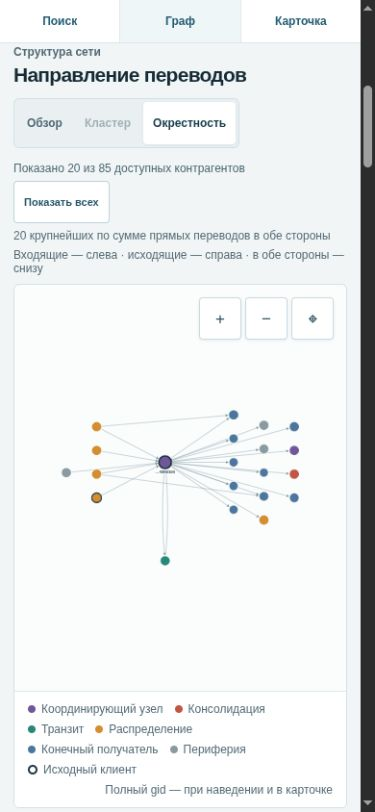
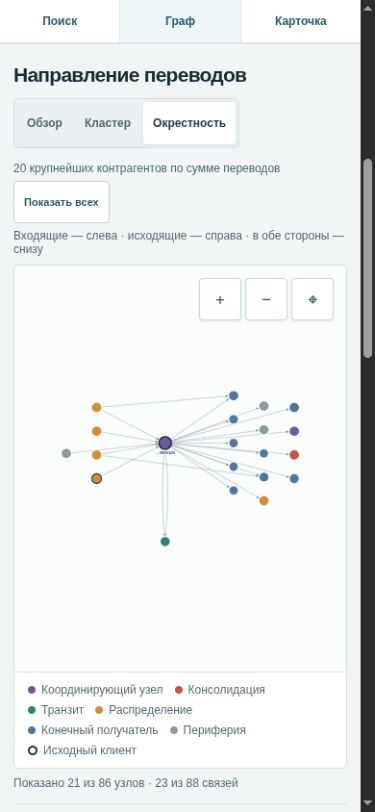
fix: simplify graph navigation and client details

diff --git a/frontend/src/styles.css b/frontend/src/styles.css
@@ -33,10 +33,11 @@ a { color: #245d72; }
 .brand p { margin: 3px 0 0; color: #637882; font-size: 12px; }
 .header-context { display: flex; flex-direction: column; gap: 3px; margin-left: auto; color: #647981; font-size: 12px; white-space: nowrap; }
 .period-label { color: #203d48; font-size: 14px; font-weight: 650; text-transform: capitalize; }
-.exports { display: flex; align-items: center; gap: 8px; padding-left: 20px; border-left: 1px solid #dbe5e9; }
-.exports > span { color: #627782; font-size: 12px; white-space: nowrap; }
-.exports a { display: inline-flex; min-height: 36px; align-items: center; padding: 7px 10px; border: 1px solid #cddde3; border-radius: 5px; color: #265263; font-size: 12px; font-weight: 600; text-decoration: none; white-space: nowrap; }
-.exports a:hover { border-color: #407589; background: #eff6f8; }
+.exports { position: relative; flex: 0 0 auto; }
+.exports summary { min-height: 44px; padding: 12px; border: 1px solid #cddde3; border-radius: 5px; color: #265263; font-size: 12px; font-weight: 600; cursor: pointer; }
+.exports nav { position: absolute; z-index: 6; top: calc(100% + 6px); right: 0; display: flex; flex-direction: column; min-width: 190px; padding: 5px; border: 1px solid #cddde3; border-radius: 5px; background: #fff; box-shadow: 0 4px 16px #24424e18; }
+.exports a { display: flex; align-items: center; min-height: 44px; padding: 10px; border-radius: 3px; color: #265263; font-size: 13px; text-decoration: none; }
+.exports a:hover, .exports summary:hover { background: #eff6f8; }
 
 .workspace { display: grid; grid-template-columns: 292px minmax(0, 1fr) 336px; flex: 1; min-height: 0; }
 .left-panel, .right-panel { min-width: 0; background: #fff; }
@@ -58,7 +59,7 @@ a { color: #245d72; }
 .priority-section > .section-heading, .section-note, .filter-row, .list-footnote { margin-left: 20px; margin-right: 20px; }
 .section-note { margin-top: 8px; margin-bottom: 17px; color: #617780; font-size: 12px; line-height: 1.5; }
 .filter-row { display: flex; align-items: center; justify-content: space-between; gap: 10px; margin-bottom: 8px; }
-.filter-row label { color: #49626c; font-size: 12px; }
+.filter-row label { color: #49626c; font-size: 12px; white-space: nowrap; }
 .filter-row select { min-width: 0; width: 172px; height: 35px; padding: 6px 8px; border: 1px solid #d1dee3; border-radius: 5px; background: #fff; color: #1f414f; font-size: 12px; }
 .priority-list { margin: 18px 0 0; padding: 0; list-style: none; }
 .priority-list li { border-top: 1px solid #ecf0f1; }
@@ -66,7 +67,6 @@ a { color: #245d72; }
 .priority-item { display: flex; align-items: center; gap: 9px; width: 100%; min-height: 60px; padding: 9px 16px 9px 20px; border: 0; border-left: 3px solid transparent; background: #fff; color: inherit; text-align: left; }
 .priority-item:hover { background: #f4f8f9; }
 .priority-item.is-active { border-left-color: #326b80; background: #ebf4f6; }
-.rank { align-self: flex-start; min-width: 20px; padding-top: 4px; color: #526a74; font-size: 12px; font-variant-numeric: tabular-nums; }
 .priority-main { display: flex; flex-direction: column; gap: 5px; min-width: 0; flex: 1; }
 .priority-main strong { overflow: hidden; color: #163b4a; font-size: 13px; font-weight: 680; text-overflow: ellipsis; white-space: nowrap; font-variant-numeric: tabular-nums; }
 .role-tag { display: inline-flex; align-items: center; gap: 6px; min-width: 0; color: #526b75; font-size: 12px; line-height: 1.3; }
@@ -91,7 +91,6 @@ a { color: #245d72; }
 .graph-toolbar { display: flex; align-items: center; flex-wrap: wrap; gap: 6px 12px; margin: 0 0 9px; color: #496773; font-size: 12px; font-variant-numeric: tabular-nums; }
 .graph-toolbar button { min-height: 34px; padding: 6px 10px; border: 1px solid #bdd1d9; border-radius: 4px; background: #fff; color: #24566a; font-size: 11px; font-weight: 650; }
 .graph-toolbar button:hover { border-color: #6493a4; background: #eef6f8; }
-.graph-toolbar small { width: 100%; color: #526a74; font-size: 12px; }
 .graph-toolbar .graph-directions { width: 100%; color: #526a74; font-size: 12px; }
 .graph-wrap { position: relative; display: flex; flex-direction: column; min-height: 440px; flex: 1; border: 1px solid #d4e1e5; border-radius: 6px; background-color: #fbfdfd; background-image: radial-gradient(#cbd8dd 0.65px, transparent 0.65px); background-size: 20px 20px; overflow: hidden; }
 .graph-canvas { width: 100%; min-height: 365px; flex: 1; }
@@ -110,7 +109,6 @@ a { color: #245d72; }
 .graph-legend span { display: inline-flex; align-items: center; gap: 6px; color: #526a74; font-size: 12px; white-space: nowrap; }
 .graph-legend i { width: 8px; height: 8px; border-radius: 50%; }
 .graph-legend .seed-mark { width: 10px; height: 10px; border: 2px solid #203946; background: #fff; }
-.graph-legend .legend-note { margin-left: auto; color: #526a74; white-space: normal; }
 .graph-caption { display: flex; flex-wrap: wrap; justify-content: space-between; gap: 3px 12px; margin: 8px 0 18px; color: #526a74; font-size: 12px; font-variant-numeric: tabular-nums; }
 .graph-access { margin: 0 0 18px; border-top: 1px solid #dce7ea; color: #294f5e; }
 .graph-access summary { display: flex; align-items: center; justify-content: space-between; min-height: 44px; font-size: 12px; font-weight: 650; cursor: pointer; list-style: none; }
@@ -122,9 +120,9 @@ a { color: #245d72; }
 .graph-access-fields label { color: #526a74; font-size: 12px; }
 .graph-access-fields select { width: 100%; min-width: 0; min-height: 40px; padding: 7px 9px; border: 1px solid #c8d8df; border-radius: 5px; background: #fff; color: #1f414f; font-size: 13px; }
 .graph-caption strong { color: #7b553a; font-weight: 600; }
-.data-caveat { display: flex; gap: 12px; padding: 13px 15px; border-left: 3px solid #b5764b; background: #f5f1ea; }
-.data-caveat strong { min-width: 108px; color: #754f38; font-size: 12px; }
-.data-caveat p { margin: 0; color: #665e54; font-size: 12px; line-height: 1.5; }
+.data-caveat { padding: 0 12px; border-left: 3px solid #b5764b; background: #f5f1ea; }
+.data-caveat summary { color: #754f38; }
+.data-caveat p { margin: 0 0 12px; color: #665e54; font-size: 12px; line-height: 1.5; }
 
 .right-panel { padding: 24px 20px 28px; }
 .detail-empty { display: flex; flex-direction: column; justify-content: center; min-height: 350px; max-width: 250px; margin: auto; color: #617780; }
@@ -134,9 +132,9 @@ a { color: #245d72; }
 .node-card-header { padding-bottom: 18px; border-bottom: 1px solid #dce7eb; }
 .node-card-header h2 { margin: 0 0 8px; overflow-wrap: anywhere; color: #173643; font-size: 24px; line-height: 1.2; letter-spacing: -.025em; font-variant-numeric: tabular-nums; }
 .node-card-header .role-tag { color: #314e5b; font-size: 12px; font-weight: 600; }
-.node-flags { display: flex; flex-wrap: wrap; gap: 6px; margin: 14px 0 18px; }
-.node-flags span { padding: 5px 7px; border: 1px solid #d6e2e6; border-radius: 3px; color: #526a74; font-size: 12px; }
-.node-flags .flag-warn { border-color: #e2c7b0; color: #925538; background: #fbf5ef; }
+.node-flags { display: flex; flex-wrap: wrap; gap: 6px 12px; margin: 14px 0 18px; }
+.node-flags span { color: #526a74; font-size: 12px; }
+.node-flags .flag-warn { color: #925538; }
 .node-scores { display: grid; grid-template-columns: 1fr 1fr; gap: 1px; margin-bottom: 18px; background: #d8e4e8; }
 .node-scores div { display: flex; flex-direction: column; gap: 4px; padding: 11px; background: #edf3f5; }
 .node-scores small { color: #526a74; font-size: 12px; line-height: 1.3; }
@@ -174,6 +172,7 @@ a { color: #245d72; }
 .connections li + li { margin: 0; }
 .connections li { border-top: 1px solid #e8eef0; }
 .connections li:last-child { border-bottom: 1px solid #e8eef0; }
+.connections .connection-order { margin: -4px 0 8px; color: #526a74; }
 .connections button { display: flex; justify-content: space-between; align-items: baseline; gap: 10px; width: 100%; padding: 9px 2px; border: 0; background: transparent; color: #284e5e; text-align: left; }
 .connections button:hover { background: #f0f6f8; }
 .connections button > span { display: flex; flex-direction: column; gap: 3px; min-width: 0; }
@@ -182,6 +181,12 @@ a { color: #245d72; }
 .connections button small { color: #526a74; font-size: 12px; }
 .detail-section .muted { color: #526a74; font-size: 12px; }
 .next-steps { padding-bottom: 0; }
+.data-caveat summary, .connections summary, .next-steps summary { display: flex; justify-content: space-between; align-items: center; gap: 10px; min-height: 44px; font-size: 12px; font-weight: 600; cursor: pointer; list-style: none; }
+.data-caveat summary::-webkit-details-marker, .connections summary::-webkit-details-marker, .next-steps summary::-webkit-details-marker { display: none; }
+.data-caveat summary::after, .connections summary::after, .next-steps summary::after { content: "⌄"; font-size: 18px; }
+.data-caveat[open] > summary::after, .connections details[open] > summary::after, .next-steps[open] > summary::after { transform: rotate(180deg); }
+.connections summary, .next-steps summary { color: #245d72; }
+.next-steps ul { padding-bottom: 12px; }
 .status-message { padding: 24px 16px; color: #526a74; font-size: 12px; line-height: 1.6; }
 .status-message p { margin: 0; }
 .text-action { margin-top: 8px; padding: 0; border: 0; background: transparent; color: #23637a; font-weight: 650; text-decoration: underline; text-underline-offset: 2px; }
@@ -190,7 +195,7 @@ a { color: #245d72; }
 .app-footer span + span::before { content: ""; display: inline-block; width: 4px; height: 4px; margin: 0 15px 2px 0; border-radius: 50%; background: #9fb2b9; }
 
 .compact-nav { display: none; }
-.search-result { margin: 10px 0 0; color: #345763; font-size: 12px; line-height: 1.5; }
+.search-result { display: none; margin: 10px 0 0; color: #345763; font-size: 12px; line-height: 1.5; }
 .search-result a { color: #245d72; font-weight: 650; text-underline-offset: 2px; }
 .filter-context { display: flex; flex-wrap: wrap; align-items: center; gap: 4px 10px; margin: 0 0 12px; padding: 8px 10px; border-left: 2px solid #8cafba; background: #f4f8f9; color: #345763; font-size: 12px; line-height: 1.5; }
 .filter-context p { margin: 0; }
@@ -201,6 +206,7 @@ a { color: #245d72; }
   .workspace { grid-template-columns: minmax(0, 1fr) 300px; }
   .left-panel { grid-column: 1 / -1; display: grid; grid-template-columns: minmax(220px, 1fr) minmax(300px, 2fr); max-height: none; border-right: 0; border-bottom: 1px solid #dbe5e9; }
   .search-section { border-bottom: 0; border-right: 1px solid #e1e9ec; }
+  .search-result { display: block; }
   .priority-section { padding: 20px 0 0; }
   .priority-list { display: flex; max-height: 185px; overflow: auto; }
   .priority-list li { min-width: 280px; border-bottom: 1px solid #ecf0f1; }
@@ -220,9 +226,7 @@ a { color: #245d72; }
 
 @media (max-width: 900px) {
   .app-header { flex-wrap: wrap; min-height: auto; }
-  .brand { width: 100%; }
-  .exports { width: 100%; margin-left: 0; padding-left: 0; border-left: 0; flex-wrap: wrap; }
-  .exports a { min-height: 44px; }
+  .brand { flex: 1; }
   .workspace { display: flex; flex-direction: column; }
   .compact-nav { position: sticky; z-index: 5; top: 0; display: flex; border-bottom: 1px solid #dbe5e9; background: #fff; }
   .compact-nav a { display: inline-flex; flex: 1; align-items: center; justify-content: center; min-height: 44px; padding: 8px; color: #245d72; font-size: 12px; font-weight: 650; text-decoration: none; }
@@ -243,7 +247,6 @@ a { color: #245d72; }
 @media (max-width: 620px) {
   .app-header { padding: 12px 15px; }
   .brand h1 { font-size: 21px; }
-  .exports a { min-height: 44px; }
   .workspace { display: flex; flex-direction: column; }
   .left-panel { display: block; }
   .search-section { padding: 18px 16px; border-right: 0; border-bottom: 1px solid #e1e9ec; }
@@ -266,8 +269,6 @@ a { color: #245d72; }
   .graph-inspector { top: 65px; bottom: auto; }
   .graph-legend { gap: 7px 12px; }
   .graph-caption { margin-bottom: 14px; }
-  .data-caveat { display: block; }
-  .data-caveat p { margin-top: 4px; }
   .right-panel { order: 2; padding: 20px 16px 28px; border-left: 0; border-top: 1px solid #dbe5e9; }
   .detail-empty { min-height: 130px; margin: 0; }
   .app-footer { padding: 10px 16px; }

diff --git a/frontend/src/App.tsx b/frontend/src/App.tsx
@@ -122,6 +122,7 @@ export default function App() {
 
   function chooseNode(gid: string) {
     cancelPendingSearch()
+    setSearch('')
     setSelectedGid(gid)
     setView('node')
     setSearchError('')
@@ -174,6 +175,7 @@ export default function App() {
   const summaryData = summary.status === 'ready' ? summary.data : null
   const graphData = graph.status === 'ready' ? graph.data : null
   const detailData = detail?.status === 'ready' && detail.data.node.gid === selectedGid ? detail.data : null
+  const clusterForView = cluster ?? detailData?.node.cluster_id ?? null
   const currentCluster = clusters.status === 'ready' ? clusters.data.find((item) => item.cluster_id === cluster) : undefined
   const outsideFilters = detailData && ((role && detailData.node.role !== role)
     || (cluster !== null && detailData.node.cluster_id !== cluster))
@@ -195,12 +197,14 @@ export default function App() {
             {formatCount(summaryData.n_nodes)} клиентов · {formatCount(summaryData.n_edges)} связей
           </span>}
         </div>
-        <nav className="exports" aria-label="Экспорт результатов">
-          <span>Скачать CSV</span>
-          <a href="/api/exports/nodes_roles.csv" download>Роли узлов</a>
-          <a href="/api/exports/clusters.csv" download>Кластеры</a>
-          <a href="/api/exports/top_nodes.csv" download>Приоритеты</a>
-        </nav>
+        <details className="exports">
+          <summary>Скачать CSV</summary>
+          <nav aria-label="Экспорт результатов">
+            <a href="/api/exports/nodes_roles.csv" download>Роли узлов</a>
+            <a href="/api/exports/clusters.csv" download>Кластеры</a>
+            <a href="/api/exports/top_nodes.csv" download>Приоритеты</a>
+          </nav>
+        </details>
       </header>
 
       <nav className="compact-nav" aria-label="Разделы рабочей области">
@@ -217,7 +221,6 @@ export default function App() {
           <section className="search-section" aria-labelledby="search-title">
             <div className="section-heading">
               <h2 id="search-title" tabIndex={-1}>Найти клиента</h2>
-              <span>gid</span>
             </div>
             <form className="search-form" onSubmit={submitSearch}>
               <label className="sr-only" htmlFor="gid-search">Идентификатор клиента gid</label>
@@ -242,8 +245,9 @@ export default function App() {
             </form>
             {searchError && <p className="field-error" id={searchErrorId} role="alert">{searchError}</p>}
             {detailData && <p className="search-result">
-              Выбран клиент <span translate="no">{detailData.node.gid}</span>.{' '}
-              <a href="#node-card-title">К карточке клиента</a>
+              <a href="#node-card-title" aria-label={`Открыть карточку клиента ${detailData.node.gid}`}>
+                Карточка <span translate="no">…{detailData.node.gid.slice(-7)}</span> →
+              </a>
             </p>}
           </section>
 
@@ -252,9 +256,9 @@ export default function App() {
               <h2 id="priority-title">Приоритет проверки</h2>
               {list.status === 'ready' && <span>{formatCount(list.data.total)}</span>}
             </div>
-            <p className="section-note">Скор отражает структурные признаки, а не вероятность нарушения.</p>
+            <p className="section-note">Порядок проверки, не вероятность нарушения.</p>
             <div className="filter-row">
-              <label htmlFor="role-filter">Роль</label>
+              <label htmlFor="role-filter">Роль в списке</label>
               <select id="role-filter" value={role} onChange={(event) => {
                 cancelPendingSearch()
                 setRole(event.target.value as Role | '')
@@ -278,14 +282,13 @@ export default function App() {
               ? <StatusMessage message="По этим фильтрам клиентов нет. Выберите другую роль или кластер." />
               : <>
                 <ol className="priority-list">
-                  {list.data.items.map((node, index) => <li key={node.gid}>
+                  {list.data.items.map((node) => <li key={node.gid}>
                     <button
                       type="button"
                       className={`priority-item ${selectedGid === node.gid ? 'is-active' : ''}`}
                       onClick={() => chooseNode(node.gid)}
                       aria-current={selectedGid === node.gid ? 'true' : undefined}
                     >
-                      <span className="rank">{String(index + 1).padStart(2, '0')}</span>
                       <span className="priority-main">
                         <strong title={node.gid}>{node.gid}</strong>
                         <RoleTag role={node.role} />
@@ -295,7 +298,7 @@ export default function App() {
                   </li>)}
                 </ol>
                 {list.data.total > list.data.items.length && <p className="list-footnote">
-                  Показаны первые {list.data.items.length} из {formatCount(list.data.total)}. Любой gid доступен через поиск.
+                  Первые {list.data.items.length} из {formatCount(list.data.total)} · остальные доступны через поиск.
                 </p>}
               </>)}
           </section>
@@ -304,14 +307,13 @@ export default function App() {
         <section className="center-panel" aria-labelledby="graph-title">
           <div className="graph-heading">
             <div>
-              <p className="kicker">Структура сети</p>
               <h2 id="graph-title" tabIndex={-1}>Направление переводов</h2>
             </div>
             <div className="view-tabs" role="group" aria-label="Область графа">
               <button type="button" className={view === 'overview' ? 'active' : ''} onClick={() => selectView('overview')} aria-pressed={view === 'overview'}>
                 Обзор
               </button>
-              <button type="button" className={view === 'cluster' ? 'active' : ''} onClick={() => cluster !== null && selectView('cluster')} aria-pressed={view === 'cluster'} disabled={cluster === null}>
+              <button type="button" className={view === 'cluster' ? 'active' : ''} onClick={() => clusterForView !== null && selectCluster(String(clusterForView))} aria-pressed={view === 'cluster'} disabled={clusterForView === null} title={clusterForView !== null ? `Открыть кластер ${clusterForView}` : 'Сначала выберите клиента или кластер'}>
                 Кластер
               </button>
               <button type="button" className={view === 'node' ? 'active' : ''} onClick={() => selectedGid && selectView('node')} aria-pressed={view === 'node'} disabled={!selectedGid}>
@@ -331,10 +333,10 @@ export default function App() {
           {graphData && (graphData.nodes.length === 0
             ? <StatusMessage message="В этой области нет узлов. Вернитесь к обзору или выберите другой кластер." />
             : <Graph data={graphData} selectedGid={selectedGid} view={view} onSelect={chooseNode} />)}
-          <div className="data-caveat">
-            <strong>Границы данных</strong>
+          <details className="data-caveat">
+            <summary>Неполная выборка: до 4-го колена</summary>
             <p>Обход включает только исходящие переводы до 4-го колена. У узлов на границе отсутствие исходящих не доказывает, что деньги остались у них. Входящие переводы исходных клиентов вне выборки не видны.</p>
-          </div>
+          </details>
         </section>
 
         <aside id="client-card" className="right-panel" aria-label="Карточка выбранного клиента" tabIndex={-1}>
@@ -349,7 +351,7 @@ export default function App() {
             <p>Выбранный клиент не входит в текущий список по фильтрам. Его карточка сохранена.</p>
             <button type="button" className="text-action" onClick={resetFilters}>Сбросить фильтры</button>
           </div>}
-          {detailData && <NodeCard detail={detailData} onSelect={chooseNode} />}
+          {detailData && <NodeCard key={detailData.node.gid} detail={detailData} onSelect={chooseNode} />}
         </aside>
       </main>
       <footer className="app-footer">

diff --git a/frontend/src/NodeCard.tsx b/frontend/src/NodeCard.tsx
@@ -44,7 +44,7 @@ export default function NodeCard({ detail, onSelect }: Props) {
       {node.is_seed && <span>Исходный клиент</span>}
       {node.boundary && <span className="flag-warn">Граница 4-го колена</span>}
       <span>Кластер {node.cluster_id}</span>
-      <span>Колено {node.depth}</span>
+      {!node.boundary && <span>Колено {node.depth}</span>}
     </div>
 
     <div className="node-scores">
@@ -102,23 +102,32 @@ export default function NodeCard({ detail, onSelect }: Props) {
     <ConnectionList title="Входящие связи" links={incoming} onSelect={onSelect} />
     <ConnectionList title="Исходящие связи" links={outgoing} onSelect={onSelect} />
 
-    {next_steps.length > 0 && <section className="detail-section next-steps">
-      <h3>Что проверить дальше</h3>
+    {next_steps.length > 0 && <details className="detail-section next-steps">
+      <summary>Что проверить дальше</summary>
       <ul>{next_steps.map((item, index) => <li key={index}>{item}</li>)}</ul>
-    </section>}
+    </details>}
   </div>
 }
 
 function ConnectionList({ title, links, onSelect }: { title: string; links: LinkData[]; onSelect: (gid: string) => void }) {
+  const sorted = [...links].sort((a, b) => b.sum_kzt - a.sum_kzt || a.counterparty_gid.localeCompare(b.counterparty_gid))
+  const renderLinks = (items: LinkData[]) => <ul>
+    {items.map((link) => <li key={`${link.src}-${link.dst}`}>
+      <button type="button" onClick={() => onSelect(link.counterparty_gid)}>
+        <span><strong title={link.counterparty_gid}>{link.counterparty_gid}</strong><small>{roleLabel[link.role]}</small></span>
+        <span>{formatMoneyCompact(link.sum_kzt)}<small>Операций: {formatCount(link.n_tx)}</small></span>
+      </button>
+    </li>)}
+  </ul>
   return <section className="detail-section connections">
     <h3>{title} <span>{formatCount(links.length)}</span></h3>
-    {links.length === 0 ? <p className="muted">В наблюдаемой сети связей нет.</p> : <ul>
-      {links.map((link) => <li key={`${link.src}-${link.dst}`}>
-        <button type="button" onClick={() => onSelect(link.counterparty_gid)}>
-          <span><strong title={link.counterparty_gid}>{link.counterparty_gid}</strong><small>{roleLabel[link.role]}</small></span>
-          <span>{formatMoneyCompact(link.sum_kzt)}<small>{formatCount(link.n_tx)} операций</small></span>
-        </button>
-      </li>)}
-    </ul>}
+    {links.length === 0 ? <p className="muted">В наблюдаемой сети связей нет.</p> : <>
+      {links.length > 5 && <p className="connection-order">Сначала 5 крупнейших по сумме</p>}
+      {renderLinks(sorted.slice(0, 5))}
+      {links.length > 5 && <details>
+        <summary>Ещё {formatCount(links.length - 5)} связей</summary>
+        {renderLinks(sorted.slice(5))}
+      </details>}
+    </>}
   </section>
 }

diff --git a/frontend/src/Graph.tsx b/frontend/src/Graph.tsx
@@ -216,7 +216,7 @@ export default function Graph({ data, selectedGid, view, onSelect }: Props) {
 
   return <>
     {neighborhood && !waitingForNode && <div className="graph-toolbar">
-      <span>Показано {formatCount(neighborhood.shownCounterparties)} из {formatCount(neighborhood.totalCounterparties)} доступных контрагентов</span>
+      {!showAll && neighborhood.totalCounterparties > 20 && <span>20 крупнейших контрагентов по сумме переводов</span>}
       {neighborhood.totalCounterparties > 20 && <button type="button" onClick={() => {
         setExpandedGid(showAll ? null : selectedGid)
         setPinnedEdge(null)
@@ -225,7 +225,6 @@ export default function Graph({ data, selectedGid, view, onSelect }: Props) {
       }}>
         {showAll ? 'Только 20 крупнейших' : 'Показать всех'}
       </button>}
-      {!showAll && neighborhood.totalCounterparties > 20 && <small>20 крупнейших по сумме прямых переводов в обе стороны</small>}
       <span className="graph-directions">Входящие — слева · исходящие — справа · в обе стороны — снизу</span>
     </div>}
     <div className="graph-wrap">
@@ -242,7 +241,6 @@ export default function Graph({ data, selectedGid, view, onSelect }: Props) {
         <div className="graph-legend" aria-label="Цвета ролей">
           {roles.map((role) => <span key={role}><i style={{ backgroundColor: roleColor[role] }} />{roleLabel[role]}</span>)}
           <span><i className="seed-mark" />Исходный клиент</span>
-          <span className="legend-note">Полный gid — при наведении и в карточке</span>
         </div>
       </>}
     </div>

diff --git a/docs/ui-ux-audit.md b/docs/ui-ux-audit.md
@@ -16,10 +16,19 @@
 - Если выбранного узла нет в отфильтрованном списке, карточка сохраняется, а интерфейс объясняет состояние и предлагает сбросить фильтр. Гонка незавершённого поиска исправлена: поздний ответ больше не отменяет последующий переход к кластеру или обзору.
 - Favicon создан как самостоятельный SVG.
 
+## Упрощение интерфейса
+
+- Три постоянно видимые ссылки выгрузки заменены одним раскрывающимся меню «Скачать CSV»; все три отдельные загрузки повторно подтверждены.
+- Кнопка «Кластер» открывает выбранный в фильтре кластер, а при отсутствии фильтра — кластер клиента. Поиск очищается после выбора, номера мест не показываются, а поля с метаданными больше не стилизуются как кнопки.
+- Убраны повторяющиеся `gid` и пояснения графа. Общие оговорки и следующие шаги свёрнуты; предупреждения о seed и границе видны сразу.
+- В карточке связи упорядочены по сумме; пять крупнейших каждого направления видны сначала, остальные открываются действием «Ещё N связей». При смене выбранного `gid` раскрытие сбрасывается.
+
 ## Подтверждения и границы
 
-По функциональному аудиту пять обязательных сценариев кейса прошли проверку данных и кода; найденных P1 нет. P2-гонка поиска закрыта и проверена тремя сценариями управляемого Promise: переход к кластеру, переход к обзору и обычный поиск. Пройдены 24 Python-теста и проверки frontend test/lint/typecheck/build; схемы трёх CSV — 2 248 / 91 / 100 строк. Фактические браузерные сценарии и последующие проверки описаны в [QA-отчёте](qa-report.md).
+По функциональному аудиту пять обязательных сценариев кейса прошли проверку данных и кода; найденных P1 нет. P2-гонка поиска закрыта и проверена тремя сценариями управляемого Promise: переход к кластеру, переход к обзору и обычный поиск. Пройдены 24 Python-теста и проверки frontend test/lint/typecheck/build; три CSV содержат 2 248 / 91 / 100 строк. Фактические браузерные сценарии и последующие проверки описаны в [QA-отчёте](qa-report.md).
 
-IAB Chromium проверен при viewport 320×740, 390×844, 768×1024, 1024×900 и 1440×1000. Во всех пяти случаях ширины документа совпали: client/scroll 305/305, 375/375, 753/753, 1009/1009 и 1425/1425 px; высота графа — 370, 422, 480, 450 и 450 px. Цикл изменения размеров 320→390→768→1024→1440→320 не увеличивал область графа. Мобильные ссылки переводят фокус на заголовок раздела ниже закреплённой навигации (top 66 px). На 320 px проверены поиск изолированного `100000000456947100`, клавиатурный выбор ребра стрелкой вниз и Enter, чтение суммы 200 000 и полных `gid`, а также сброс с возвратом фокуса в список рёбер. В обзоре доступны 120 узлов и 196 связей; выбор узла `100000008324800100` открывает карточку. Фильтр «Консолидация» не скрывает выбранную карточку роли «Транзит»: интерфейс объясняет отсутствие узла в списке, а сброс фильтра сохраняет карточку. Favicon возвращает HTTP 200 с SVG.
+После упрощения интерфейс повторно проверен в IAB Chromium на 320×740, 390×844, 768×1024, 1024×900 и 1440×1000. Во всех размерах нет горизонтального переполнения: clientWidth/scrollWidth — 305/305, 375/375, 753/753, 1009/1009 и 1440/1440 px соответственно. Высота графа — 370 px при ширине 320, 480 при 768, 450 при 1024 и 512 при 1440. Карточка выбранного узла на ширине 390 px занимает 1 568 px.
+
+Три CSV скачаны через меню. Кнопка «Кластер» открыла кластер 3; входящие связи раскрывались 5→24→5, исходящие 5→62. Переход по крупнейшей входящей связи открыл `100000008748914100`; поле поиска очистилось, раскрываемые секции новой карточки были свёрнуты. Проверены валидация поиска, фильтр роли и сброс, переход фокуса к заголовку карточки ниже закреплённой навигации, раскрытие пояснений через Enter, масштабирование и переключение графа 21/23→86/88→21/23. Клавиатурный выбор перевода показал полные gid и сумму 200 000 KZT; сброс вернул фокус в список переводов. Ошибок JavaScript нет. Пять frontend-тестов, lint, TypeScript, build и Docker health — PASS.
 
 Проверки не охватывают полную матрицу WCAG 2.2, реальные устройства, все браузеры и вспомогательные технологии; мобильный Safari отдельно не проверялся. Для плотных графов подписи могут пересекаться, поэтому требуется приближение и выбор отдельных узлов. Снимок мобильного интерфейса: [mobile.jpg](images/mobile.jpg). Подробный сценарий — в [QA-отчёте](qa-report.md).

diff --git a/README.md b/README.md
@@ -66,7 +66,13 @@ Compose запускает один сервис на `127.0.0.1:8000`; `data/` 
 
 В режиме узла входящие связи размещены слева, исходящие справа, взаимные — снизу. Сначала показаны 20 контрагентов с наибольшей суммой прямых переводов в обе стороны. Кнопка «Показать всех» раскрывает уже загруженную окрестность в пределах 120 узлов, включая выбранный; под графом указано фактическое количество узлов и связей. Автоматическое вписывание не увеличивает маленький граф чрезмерно. Подписи видны у выбранного узла и при приближении. Наведение или нажатие на связь выделяет её и показывает полные `gid`, сумму до двух знаков и число переводов.
 
-Интерфейс проверен в IAB Chromium на viewport 320×740, 390×844, 768×1024, 1024×900 и 1440×1000; горизонтального переполнения нет, высота графа ограничена размером окна. Выбранная карточка сохраняется при фильтрации: если узел не входит в список, интерфейс объясняет это и позволяет сбросить фильтр. Подробные сценарии и численные результаты — в [QA-отчёте](docs/qa-report.md) и [UI/UX-аудите](docs/ui-ux-audit.md). Большие обзорные графы требуют приближения и выбора отдельных узлов; в плотных областях возможны пересечения связей и подписей. Приоритет отображается с тремя знаками, а `role_score` — как «Сила признаков роли» в процентах.
+После упрощения интерфейс проверен в IAB Chromium при ширине 320, 390, 768, 1024 и 1440 px: горизонтального переполнения нет; точные размеры окна и области графа приведены в [QA-отчёт](docs/qa-report.md). Выбранная карточка сохраняется при фильтрации: если узел не входит в список, интерфейс объясняет это и позволяет сбросить фильтр. Большие обзорные графы требуют приближения и выбора отдельных узлов; в плотных областях возможны пересечения связей и подписей. Приоритет отображается с тремя знаками, а `role_score` — как «Сила признаков роли» в процентах.
+
+### Упрощение интерфейса
+
+Выгрузки собраны в одном раскрывающемся меню, поиск очищается после выбора, номера мест убраны, а метаданные не оформлены как кнопки. Кнопка «Кластер» открывает выбранный в фильтре кластер, а при отсутствии фильтра — кластер клиента; пояснения и следующие шаги сворачиваются, предупреждения seed и границы остаются видны. Связи отсортированы по сумме: сначала пять входящих и исходящих, остальные раскрываются отдельно; при выборе другого узла список сворачивается.
+
+Проверено в браузере: все три CSV скачиваются; поиск, переход к кластеру, смена фильтров, карточка, граф и клавиатурный выбор ребра работают. На мобильных размерах проверены обработка неправильного `gid`, фокус навигации, отсутствие горизонтального переполнения и основные действия графа. Подробности и границы проверки — в [QA-отчёте](docs/qa-report.md).
 
 ## Результаты и архитектура
 
